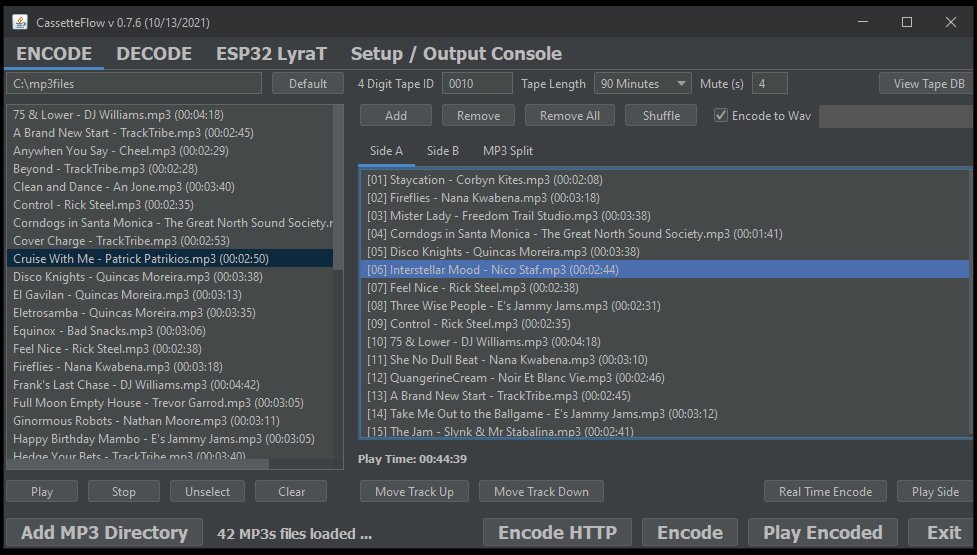
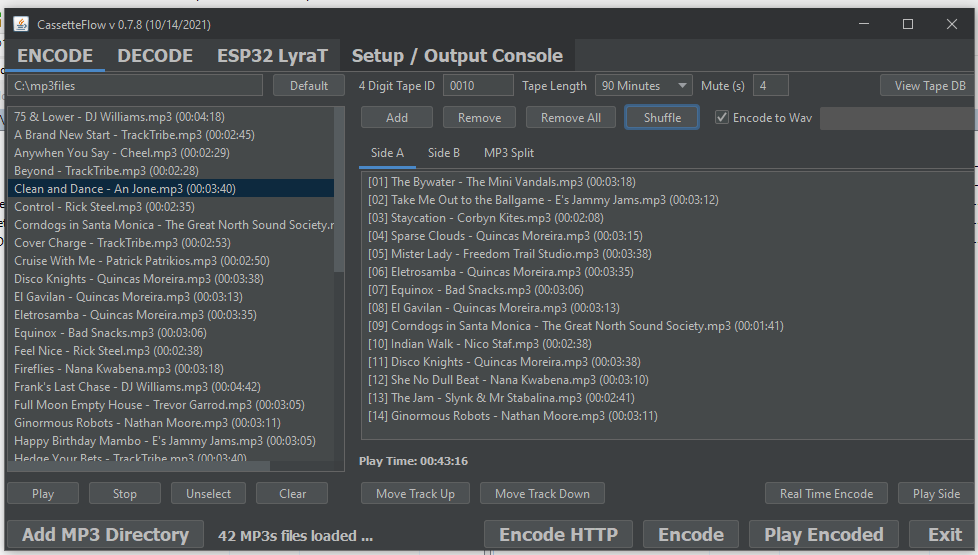
Updated readme and more bug fixes.

Changed region(s): [[0.0, 0.0, 1.0, 1.0], [0.7984, 0.8577, 0.8905, 0.9189]]

diff --git a/src/cassetteflow/CassetteFlowFrame.java b/src/cassetteflow/CassetteFlowFrame.java
@@ -170,7 +170,10 @@ public class CassetteFlowFrame extends javax.swing.JFrame {
      */
     private void addMP3InfoToJList() {
         DefaultListModel model = (DefaultListModel) mp3JList.getModel();
-
+        
+        // sort the list of mp3s before displaying
+        Collections.sort(cassetteFlow.mp3InfoList, (o1, o2) -> o1.toString().compareTo(o2.toString()));
+        
         for (MP3Info mp3Info: cassetteFlow.mp3InfoList) {
             try {
                 System.out.println("MP3 File: " + mp3Info);
@@ -213,6 +216,7 @@ public class CassetteFlowFrame extends javax.swing.JFrame {
     
     /**
      * A way to directly encode the data directly to a wav file or in real time
+     * which involves playing back the wav file after creation.
      */
     private void directEncode(boolean forDownload, boolean realTime) {
         int side = tapeJTabbedPane.getSelectedIndex();
@@ -242,6 +246,10 @@ public class CassetteFlowFrame extends javax.swing.JFrame {
             encodeSeconds++;
             String timeString = cassetteFlow.getTimeString(encodeSeconds);
             infoLabel.setText("Encode Timer: " + timeString);
+            
+            if(encodeSeconds % 60 == 0) {
+                consoleTextArea.append(".");
+            }
         });
         timer.start();
         
@@ -417,7 +425,7 @@ public class CassetteFlowFrame extends javax.swing.JFrame {
         playEncodedWavButton = new javax.swing.JButton();
 
         setDefaultCloseOperation(javax.swing.WindowConstants.EXIT_ON_CLOSE);
-        setTitle("CassetteFlow v 0.7.6 (10/13/2021)");
+        setTitle("CassetteFlow v 0.7.8 (10/14/2021)");
 
         jTabbedPane1.setFont(new java.awt.Font("Tahoma", 1, 18)); // NOI18N
 
@@ -444,9 +452,9 @@ public class CassetteFlowFrame extends javax.swing.JFrame {
             jPanel3Layout.createParallelGroup(javax.swing.GroupLayout.Alignment.LEADING)
             .addComponent(jScrollPane2, javax.swing.GroupLayout.DEFAULT_SIZE, 586, Short.MAX_VALUE)
             .addGroup(jPanel3Layout.createSequentialGroup()
-                .addComponent(sideALabel, javax.swing.GroupLayout.PREFERRED_SIZE, 300, javax.swing.GroupLayout.PREFERRED_SIZE)
-                .addGap(18, 18, 18)
-                .addComponent(trackALabel, javax.swing.GroupLayout.DEFAULT_SIZE, javax.swing.GroupLayout.DEFAULT_SIZE, Short.MAX_VALUE))
+                .addComponent(sideALabel, javax.swing.GroupLayout.DEFAULT_SIZE, javax.swing.GroupLayout.DEFAULT_SIZE, Short.MAX_VALUE)
+                .addPreferredGap(javax.swing.LayoutStyle.ComponentPlacement.UNRELATED)
+                .addComponent(trackALabel, javax.swing.GroupLayout.PREFERRED_SIZE, 201, javax.swing.GroupLayout.PREFERRED_SIZE))
         );
         jPanel3Layout.setVerticalGroup(
             jPanel3Layout.createParallelGroup(javax.swing.GroupLayout.Alignment.LEADING)
@@ -476,9 +484,9 @@ public class CassetteFlowFrame extends javax.swing.JFrame {
             jPanel4Layout.createParallelGroup(javax.swing.GroupLayout.Alignment.LEADING)
             .addComponent(jScrollPane3, javax.swing.GroupLayout.DEFAULT_SIZE, 586, Short.MAX_VALUE)
             .addGroup(jPanel4Layout.createSequentialGroup()
-                .addComponent(sideBLabel, javax.swing.GroupLayout.PREFERRED_SIZE, 300, javax.swing.GroupLayout.PREFERRED_SIZE)
+                .addComponent(sideBLabel, javax.swing.GroupLayout.DEFAULT_SIZE, javax.swing.GroupLayout.DEFAULT_SIZE, Short.MAX_VALUE)
                 .addPreferredGap(javax.swing.LayoutStyle.ComponentPlacement.UNRELATED)
-                .addComponent(trackBLabel, javax.swing.GroupLayout.DEFAULT_SIZE, javax.swing.GroupLayout.DEFAULT_SIZE, Short.MAX_VALUE))
+                .addComponent(trackBLabel, javax.swing.GroupLayout.PREFERRED_SIZE, 200, javax.swing.GroupLayout.PREFERRED_SIZE))
         );
         jPanel4Layout.setVerticalGroup(
             jPanel4Layout.createParallelGroup(javax.swing.GroupLayout.Alignment.LEADING)

diff --git a/src/cassetteflow/CassetteFlow.java b/src/cassetteflow/CassetteFlow.java
@@ -662,8 +662,9 @@ public class CassetteFlow {
             System.out.println(message);
             
             try {
-                wavPlayer.play(filename, soundOutput);
-            } catch(IOException | InterruptedException | LineUnavailableException | UnsupportedAudioFileException e) {
+                File wavFile = new File(filename);
+                wavPlayer.playBigWav(wavFile, soundOutput);
+            } catch(IOException | LineUnavailableException | UnsupportedAudioFileException e) {
                 message = "Error Playing Wav: " + filename + "\n" + e.getMessage();
                 cassetteFlowFrame.printToConsole(message, true);
                 System.out.println(message);

diff --git a/README.md b/README.md
@@ -4,6 +4,7 @@ testbed for the CassetteFlow system, currently under development using the
 [ESP32LyraT](https://docs.espressif.com/projects/esp-adf/en/latest/get-started/get-started-esp32-lyrat.html) 
 audio board.
 
+## Introduction
 CassetteFlow is a somewhat impractical, but fun project to make use of ESP32-LyraT 
 board, old school audio cassette tapes containing encoded data, and MP3 files in 
 an attempt to simulate digital music playback from an analog compact audio cassette. 
@@ -15,9 +16,15 @@ of the excellent [Minimodem](https://github.com/kamalmostafa/minimodem)
 program to encode the generate input files to wav files for recording onto 
 cassette tapes, as well has decoding data from cassettes.
 
+Please note that this project is not meant to as a way to get cassettes to sound 
+good. With the proper deck and tape type the audio from a cassette that sound 
+pretty good, even close to CD quality. 
+
 ![Main GUI 1](gui01.png)
 ![Main GUI 2](gui02.png)
-![Data Flow](dataflow.png)
+![Data Flow 1](dataflow01.png)
+![Data Flow 2](dataflow02.png)
+![LyraT](lyraT01.png)
 
 ## Installation and Running
 Since this project is in very early development, I haven't put together a 
